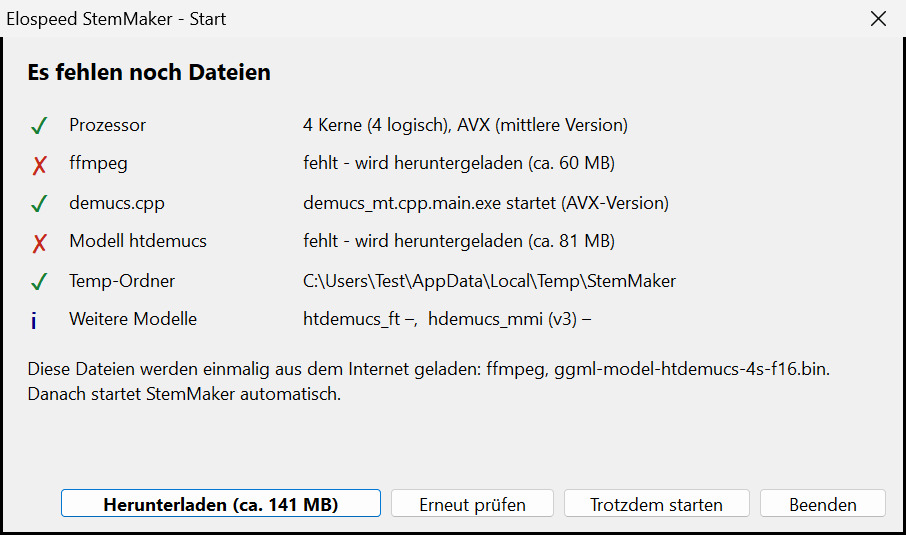
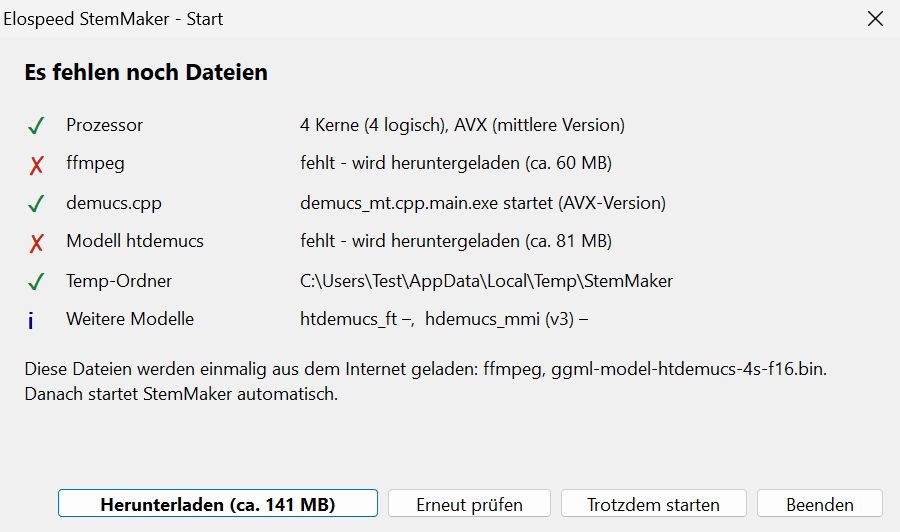
Handbuch: schwarze Fensterränder an den Bildern abgeschnitten, Marken umgerechnet; Einstellungen-Marken für 125 % eingemessen

diff --git a/docs/handbuch/de.md b/docs/handbuch/de.md
@@ -135,7 +135,7 @@ Beim **allerersten Start** fehlen noch ffmpeg (ca. 60 MB) und das Trenn-Modell (
 
 Oben ist die Liste der Dateien mit der AddOn-Leiste rechts daneben, darunter die Einstellungen für die nächste Umwandlung, ganz unten der Fortschritt und das Protokoll.
 
-![Das Hauptfenster während einer Umwandlung](img/de/hauptfenster.png){marken="1:1.1,7 2:12.5,7 3:38.6,7 4:58.8,7 5:46.6,31.7 6:10.2,46.4 7:14.2,63.5 8:1.1,71.8 9:47.2,70.3 10:70,87.7 11:80.6,97.5 12:95,10"}
+![Das Hauptfenster während einer Umwandlung](img/de/hauptfenster.png){marken="1:0.5,7.1 2:11.9,7.1 3:38.4,7.1 4:58.9,7.1 5:46.5,32.0 6:9.6,46.9 7:13.6,64.1 8:0.5,72.5 9:47.2,71.0 10:70.3,88.6 11:81.1,98.5 12:95.7,10.1"}
 
 ::: marken
 1. **Info**: Version, Updates, Fehlerbericht und Logs (Kapitel [§](#info)). Daneben **?**: öffnet diese Anleitung. Die Taste [F1]{.taste} tut das in jedem Fenster, jeweils beim passenden Abschnitt.
@@ -284,7 +284,7 @@ Im Hauptfenster steht nur, was man pro Umwandlung ändert:
 
 Alles, was man einmal einstellt, liegt hinter dem Zahnrad **Weitere Einstellungen…**.
 
-![Das Fenster „Weitere Einstellungen“](img/de/einstellungen.png){marken="1:1.9,9.3 2:1.9,15.9 3:1.9,26.2 4:85,39.3 5:19,54.4 6:19,76.3 7:1.9,96.8"}
+![Das Fenster „Weitere Einstellungen“](img/de/einstellungen.png){marken="1:1.5,8.4 2:1.5,15.1 3:1.5,25.5 4:85.3,38.7 5:18.8,54.3 6:18.8,76.4 7:1.5,97.1"}
 
 ::: marken
 1. **Teile / Auto**: wie viele Teile des Songs gleichzeitig getrennt werden. **Auto** (Standard) nimmt so viele Teile, wie der Prozessor echte Kerne hat (höchstens 4), und nur so viele, wie der Arbeitsspeicher verkraftet (pro Teil gut 2 GB). Daneben steht, wie die Kerne verteilt werden. Das gilt nur für Klassisch; Turbo verteilt die Arbeit selbst auf alle Kerne.
@@ -436,7 +436,7 @@ Er spricht dieselbe Sprache wie StemMaker und folgt dem Design (hell oder dunkel
 
 ## Überblick
 
-![Der StemTagger mit drei Dateien, zwei davon markiert](img/de/stemtagger.png){marken="1:1.0,8.7 2:62.8,8.7 3:1.0,14.3 4:1.0,70.4 5:25.4,72.6 6:32.8,96.0"}
+![Der StemTagger mit drei Dateien, zwei davon markiert](img/de/stemtagger.png){marken="1:0.5,8.8 2:63.0,8.8 3:0.5,14.5 4:0.5,71.3 5:25.0,73.5 6:32.5,97.2"}
 
 ::: marken
 1. **Dateien...**, **Ordner...**, **Entfernen** und **Liste leeren**: Dateien laden oder aus der Liste nehmen (die Dateien selbst bleiben).
@@ -469,7 +469,7 @@ In der AddOn-Leiste auf **StemPacker** klicken oder im Startmenü. Er nimmt ffmp
 
 ## Überblick
 
-![Der StemPacker nach dem Hineinziehen eines Ordners](img/de/stempacker.png){marken="1:1.3,8.1 2:1.0,18.9 3:1.0,23.6 4:1.0,28.3 5:50,60 6:1.2,91.2"}
+![Der StemPacker nach dem Hineinziehen eines Ordners](img/de/stempacker.png){marken="1:0.5,8.2 2:0.5,19.1 3:0.5,23.9 4:0.5,28.6 5:50.0,60.7 6:0.5,92.2"}
 
 ::: marken
 1. **Ordner hineinziehen** oder **Ordner wählen …**: Er erkennt an den Dateinamen selbst, welche Datei der Master ist und welche Spur Drums, Bass, Other oder Vox. Mit **Ordner und Muster selbst einstellen** legst du Ordner und Namensmuster pro Spur selbst fest.
@@ -494,7 +494,7 @@ Eine ausführliche englische Anleitung liegt als `AddOns\StemPacker-User-Guide.p
 
 Der Knopf **Info** oben links öffnet das Info-Fenster mit Version, Build-Datum und dem Namen des aktuellen Logs.
 
-![Das Info-Fenster](img/de/info.png){marken="1:38.5,21.9 2:1.6,87.5 3:30.0,87.5 4:59.0,87.5 5:1.6,94.9"}
+![Das Info-Fenster](img/de/info.png){marken="1:38.3,22.2 2:0.6,88.6 3:29.6,88.6 4:59.2,88.6 5:0.6,96.1"}
 
 ::: marken
 1. **Anleitung**, **Versionen**, **Danke** und **Lizenzen**: die Kurzfassung (LIESMICH), was jede Version Neues gebracht hat, alle, die mitgeholfen haben, sowie Haftungsausschluss und Lizenztexte.

diff --git a/docs/handbuch/en.md b/docs/handbuch/en.md
@@ -135,7 +135,7 @@ On the **very first start**, ffmpeg (approx. 60 MB) and the separation model (ap
 
 At the top is the list of files with the AddOn bar next to it on the right, below it the settings for the next conversion, and at the bottom the progress and the log.
 
-![The main window during a conversion](img/en/hauptfenster.png){marken="1:1.1,7 2:12.5,7 3:38.6,7 4:58.8,7 5:46.6,31.7 6:10.2,46.4 7:14.2,63.5 8:1.1,71.8 9:47.2,70.3 10:70,87.7 11:80.6,97.5 12:95,10"}
+![The main window during a conversion](img/en/hauptfenster.png){marken="1:0.5,7.1 2:11.9,7.1 3:38.4,7.1 4:58.9,7.1 5:46.5,32.0 6:9.6,46.9 7:13.6,64.1 8:0.5,72.5 9:47.2,71.0 10:70.3,88.6 11:81.1,98.5 12:95.7,10.1"}
 
 ::: marken
 1. **Info**: version, updates, error report and logs (chapter [§](#info)). Next to it **?**: opens this guide. The [F1]{.taste} key does the same in every window, each time at the matching section.
@@ -284,7 +284,7 @@ The main window only holds what you change per conversion:
 
 Everything you set up once is behind the gear button **More settings…**.
 
-![The "Settings" window](img/en/einstellungen.png){marken="1:1.9,9.3 2:1.9,15.9 3:1.9,26.2 4:85,39.3 5:19,54.4 6:19,76.3 7:1.9,96.8"}
+![The "Settings" window](img/en/einstellungen.png){marken="1:1.5,8.4 2:1.5,15.1 3:1.5,25.5 4:85.3,38.7 5:18.8,54.3 6:18.8,76.4 7:1.5,97.1"}
 
 ::: marken
 1. **Parts / Auto**: how many parts of the song are separated at the same time. **Auto** (default) uses as many parts as the processor has real cores (at most 4), and only as many as the RAM can handle (a good 2 GB per part). Next to it you see how the cores are shared out. This only applies to Classic; Turbo spreads the work over all cores by itself.
@@ -436,7 +436,7 @@ It speaks the same language as StemMaker and follows its design (light or dark).
 
 ## Overview
 
-![The StemTagger with three files, two of them selected](img/en/stemtagger.png){marken="1:1.0,8.7 2:62.8,8.7 3:1.0,14.3 4:1.0,70.4 5:25.4,72.6 6:41.6,96.0"}
+![The StemTagger with three files, two of them selected](img/en/stemtagger.png){marken="1:0.5,8.8 2:63.0,8.8 3:0.5,14.5 4:0.5,71.3 5:25.0,73.5 6:41.5,97.2"}
 
 ::: marken
 1. **Files...**, **Folder...**, **Remove** and **Clear list**: load files or take them off the list (the files themselves stay).
@@ -469,7 +469,7 @@ Click **StemPacker** in the AddOn bar or use the Start menu. It uses StemMaker's
 
 ## Overview
 
-![The StemPacker after dragging in a folder](img/en/stempacker.png){marken="1:1.3,8.1 2:1.0,18.9 3:1.0,23.6 4:1.0,28.3 5:50,60 6:1.2,91.2"}
+![The StemPacker after dragging in a folder](img/en/stempacker.png){marken="1:0.5,8.2 2:0.5,19.1 3:0.5,23.9 4:0.5,28.6 5:50.0,60.7 6:0.5,92.2"}
 
 ::: marken
 1. **Drag in a folder** or **Choose folder …**: it works out from the file names which file is the master and which track is drums, bass, other or vox. With **Set folders and patterns myself** you set the folder and name pattern for each track yourself.
@@ -494,7 +494,7 @@ A detailed English guide comes as `AddOns\StemPacker-User-Guide.pdf`.
 
 The **Info** button at the top left opens the Info window with version, build date and the name of the current log.
 
-![The Info window](img/en/info.png){marken="1:38.5,21.9 2:1.6,87.5 3:30.0,87.5 4:59.0,87.5 5:1.6,94.9"}
+![The Info window](img/en/info.png){marken="1:38.3,22.2 2:0.6,88.6 3:29.6,88.6 4:59.2,88.6 5:0.6,96.1"}
 
 ::: marken
 1. **Guide**, **Versions**, **Thanks** and **Licenses**: the short version (README), what each version brought, everyone who helped, and the disclaimer and license texts.

diff --git a/docs/handbuch/es.md b/docs/handbuch/es.md
@@ -135,7 +135,7 @@ En el **primer inicio** aún faltan ffmpeg (aprox. 60 MB) y el modelo de separac
 
 Arriba está la lista de archivos con la barra de AddOns a su derecha, debajo los ajustes para la próxima conversión y abajo del todo el progreso y el registro.
 
-![La ventana principal durante una conversión](img/es/hauptfenster.png){marken="1:1.1,7 2:12.5,7 3:38.6,7 4:58.8,7 5:46.6,31.7 6:11.4,46.4 7:14.2,63.5 8:1.1,71.8 9:47.2,70.3 10:70,87.7 11:79.4,97.5 12:95,10"}
+![La ventana principal durante una conversión](img/es/hauptfenster.png){marken="1:0.5,7.1 2:11.9,7.1 3:38.4,7.1 4:58.9,7.1 5:46.5,32.0 6:10.8,46.9 7:13.6,64.1 8:0.5,72.5 9:47.2,71.0 10:70.3,88.6 11:79.9,98.5 12:95.7,10.1"}
 
 ::: marken
 1. **Info**: versión, actualizaciones, informe de error y registros (capítulo [§](#info)). Al lado **?**: abre esta guía. La tecla [F1]{.taste} hace lo mismo en cualquier ventana, siempre en la sección correspondiente.
@@ -436,7 +436,7 @@ Habla el mismo idioma que StemMaker y sigue su diseño (claro u oscuro). **?** a
 
 ## Vista general
 
-![El StemTagger con tres archivos, dos de ellos seleccionados](img/es/stemtagger.png){marken="1:1.0,8.7 2:62.8,8.7 3:1.0,14.3 4:1.0,70.4 5:25.4,72.6 6:34.0,96.0"}
+![El StemTagger con tres archivos, dos de ellos seleccionados](img/es/stemtagger.png){marken="1:0.5,8.8 2:63.0,8.8 3:0.5,14.5 4:0.5,71.3 5:25.0,73.5 6:33.7,97.2"}
 
 ::: marken
 1. **Archivos...**, **Carpeta...**, **Eliminar** y **Vaciar lista**: cargar archivos o quitarlos de la lista (los archivos en sí se quedan).
@@ -469,7 +469,7 @@ Haz clic en **StemPacker** en la barra de AddOns o usa el menú Inicio. Usa el f
 
 ## Vista general
 
-![El StemPacker después de arrastrar una carpeta](img/es/stempacker.png){marken="1:1.3,8.1 2:1.0,18.9 3:1.0,23.6 4:1.0,28.3 5:50,60 6:1.2,91.2"}
+![El StemPacker después de arrastrar una carpeta](img/es/stempacker.png){marken="1:0.5,8.2 2:0.5,19.1 3:0.5,23.9 4:0.5,28.6 5:50.0,60.7 6:0.5,92.2"}
 
 ::: marken
 1. **Arrastra una carpeta** o **Elegir carpeta …**: por los nombres de archivo reconoce cuál es el máster y qué pista es drums, bass, other o vox. Con **Ajustar carpetas y patrones yo mismo** fijas tú la carpeta y el patrón de nombre de cada pista.
@@ -494,7 +494,7 @@ Una guía detallada en inglés viene como `AddOns\StemPacker-User-Guide.pdf`.
 
 El botón **Info** de arriba a la izquierda abre la ventana Info con la versión, la fecha de compilación y el nombre del registro actual.
 
-![La ventana Info](img/es/info.png){marken="1:38.5,21.9 2:1.6,87.5 3:30.0,87.5 4:59.0,87.5 5:1.6,94.9"}
+![La ventana Info](img/es/info.png){marken="1:38.3,22.2 2:0.6,88.6 3:29.6,88.6 4:59.2,88.6 5:0.6,96.1"}
 
 ::: marken
 1. **Guía**, **Versiones**, **Gracias** y **Licencias**: la versión breve (README), qué trajo cada versión, todas las personas que han ayudado, y el descargo de responsabilidad y los textos de licencia.
